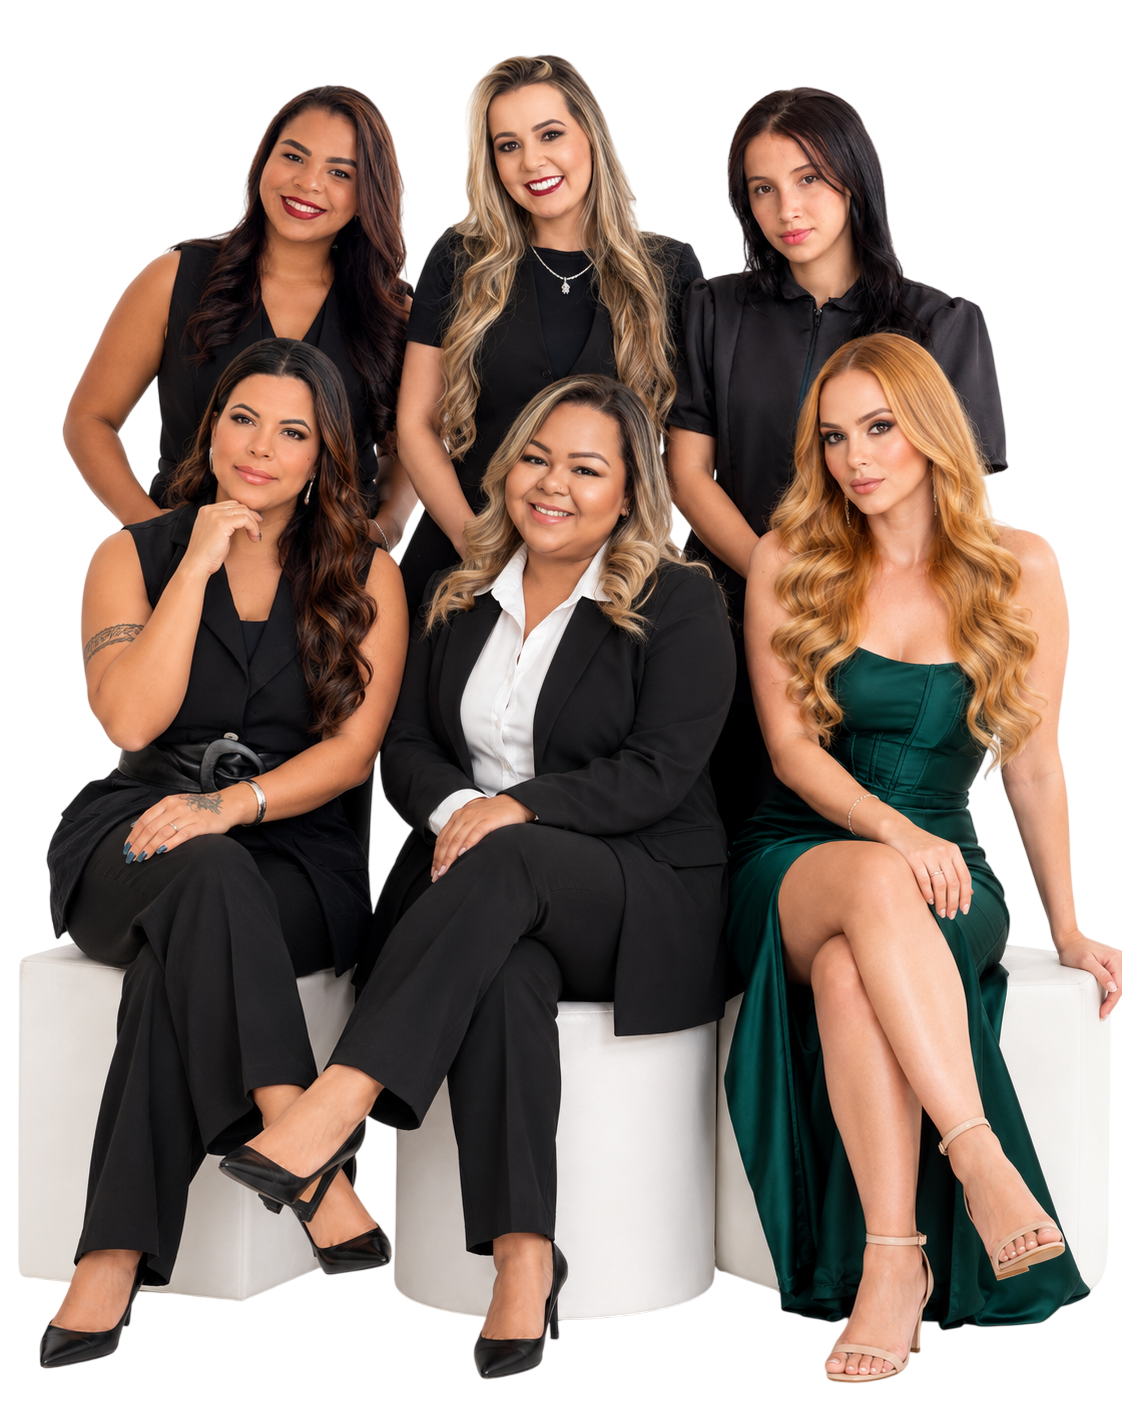
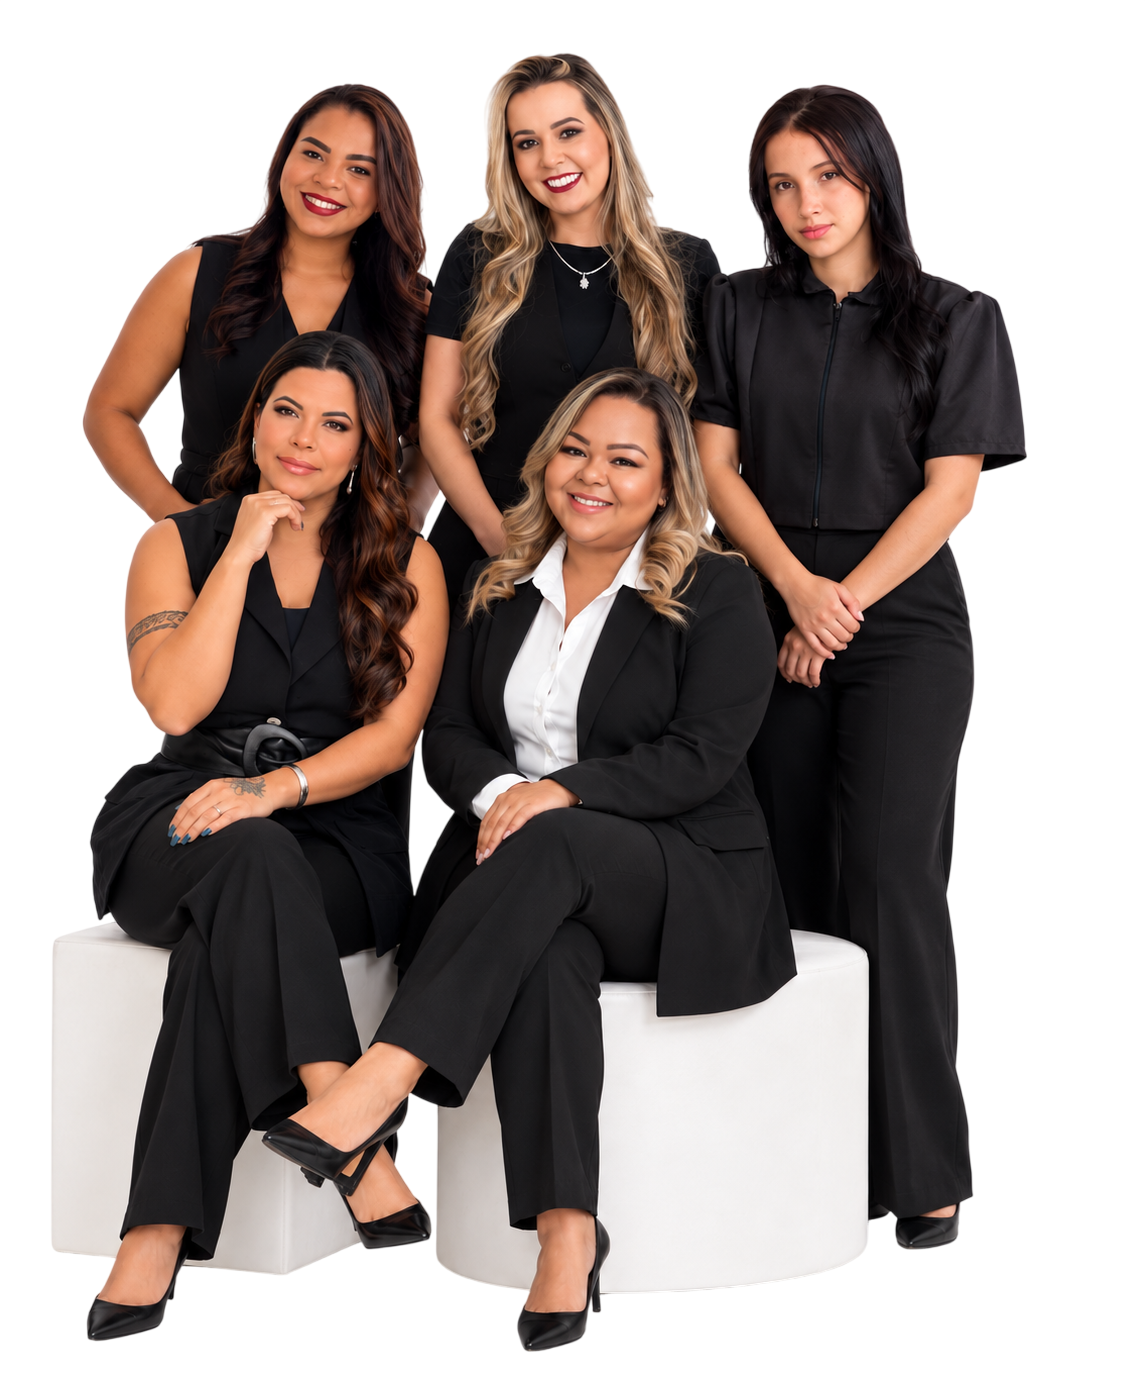
fix: ajustar posicionamento e escala da imagem das profissionais no hero sem cortar bordas

diff --git a/src/components/LandingPage.tsx b/src/components/LandingPage.tsx
@@ -210,13 +210,13 @@ export default function LandingPage({ onOpenBooking, onNavigateToAdmin }: Landin
             </div>
           </div>
 
-          {/* HUMAN VISUAL - Liberado das colunas para maior escala */}
-          <div className="lg:absolute lg:bottom-0 lg:right-[-2%] lg:h-[75%] xl:h-[80%] lg:w-[55%] flex items-end justify-center lg:justify-end mt-12 lg:mt-0 relative h-[450px] w-full z-0 pointer-events-none">
-            <div className="relative h-full w-full flex items-end justify-center lg:justify-end hero-prof">
+          {/* HUMAN VISUAL - Balanced Editorial Placement */}
+          <div className="lg:col-span-6 xl:col-span-7 flex items-end justify-center lg:justify-end mt-8 lg:mt-0 relative lg:h-full w-full z-0 pointer-events-none">
+            <div className="relative h-[420px] sm:h-[500px] lg:h-[84%] xl:h-[88%] w-full flex items-end justify-center lg:justify-end hero-prof">
               <img 
                 src="/profissionais.webp" 
                 alt="Profissionais Cuidare" 
-                className="h-full w-auto max-w-none object-contain object-bottom origin-bottom mix-blend-multiply" 
+                className="h-full w-auto max-w-full object-contain object-bottom origin-bottom mix-blend-multiply" 
                 style={{ objectPosition: 'right bottom' }}
               />
             </div>
